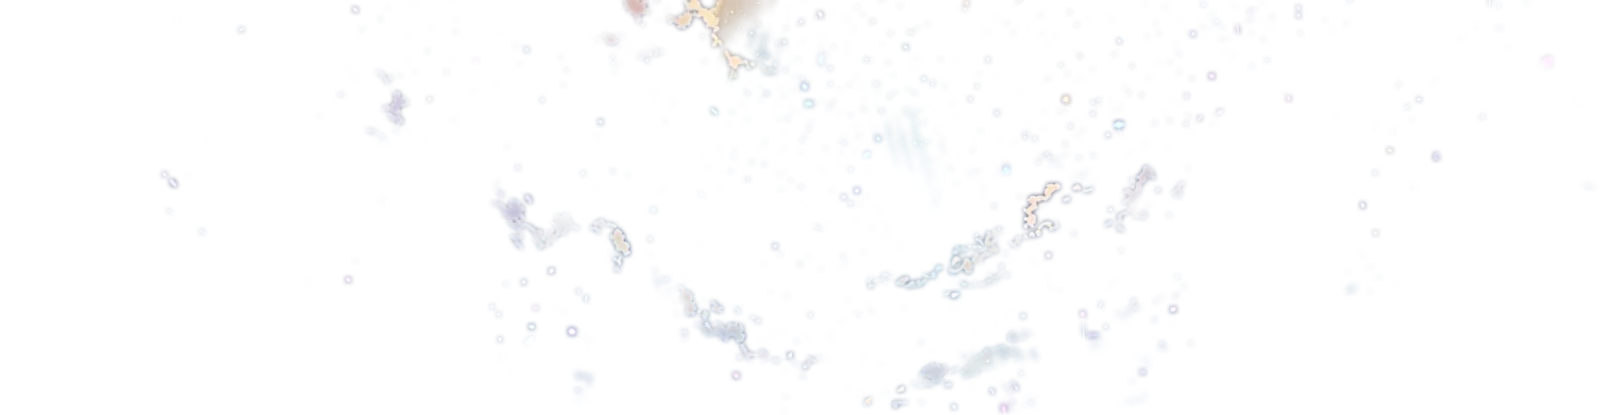
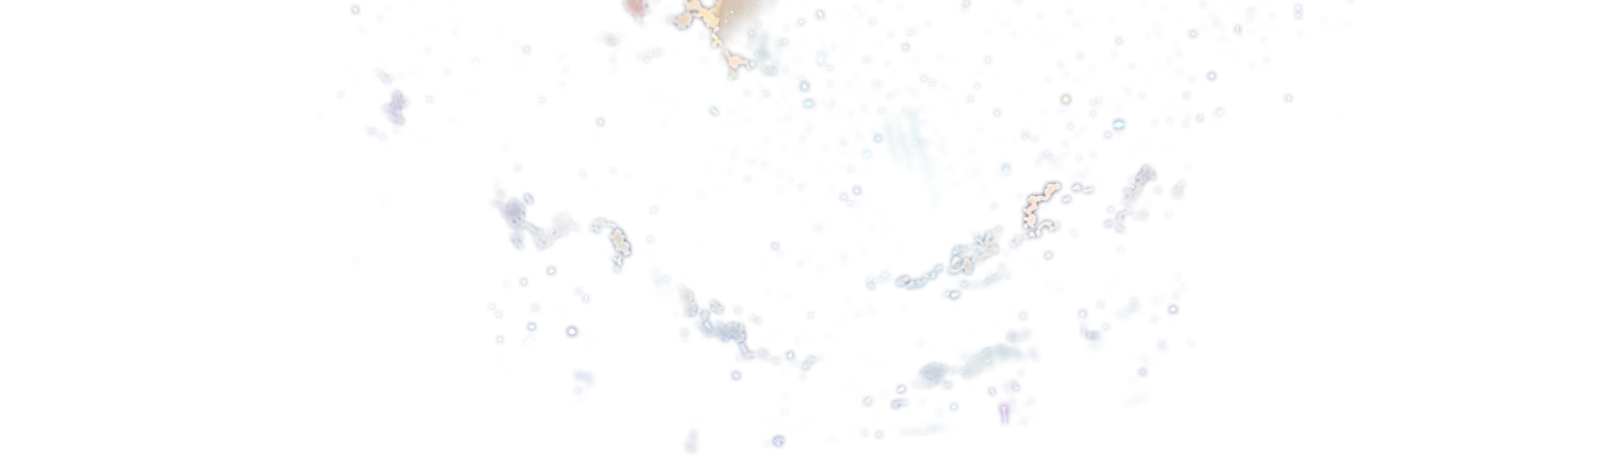
Teen sign-in light beams sweep; picture names on the kid sign-in pad
- The neon city's spotlight beams swing a few degrees round their source and breathe,
  over a plate with the sky filled in behind them (no ghost beams).
- Each picture on the picture-code pad shows its name on hover, focus or tap, so a
  grown-up can help a child set or remember a code.

Claude-Session: https://claude.ai/code/session_01W5FUqr3wzG1fxesKh8vtqK

diff --git a/scripts/living-art.ts b/scripts/living-art.ts
@@ -16,7 +16,7 @@ import { join } from "node:path";
 import sharp from "sharp";
 import { cutoutFromMasks, maskArea, masksToAlpha, samSegment, type MaskRaster } from "../lib/meta/index.ts";
 
-export type Motion = "sway" | "waver" | "breeze" | "mist" | "haze" | "bob" | "float" | "orbit" | "flow" | "shimmer" | "glint" | "runway" | "neon" | "flicker" | "pulse" | "sky" | "twinkle" | "aurora" | "stream";
+export type Motion = "sway" | "waver" | "breeze" | "mist" | "haze" | "bob" | "float" | "orbit" | "sweep" | "flow" | "shimmer" | "glint" | "runway" | "neon" | "flicker" | "pulse" | "sky" | "twinkle" | "aurora" | "stream";
 const MASK_ONLY: ReadonlySet<Motion> = new Set(["breeze", "flow", "shimmer", "glint", "runway", "neon", "flicker", "pulse", "sky", "twinkle", "aurora", "stream"]);
 
 /** A circle in fractions of the art: centre x of the width, y of the height, radius r of the width. */
@@ -58,7 +58,7 @@ interface PixelPart {
   /** Leave out what these SAM parts cover (the clouds behind the islands are not the islands), or keep only that. */
   exclude?: string[];
   inside?: string[];
-  /** Where an orbit layer turns, in percent of the art. */
+  /** Where an orbit or sweep layer turns, in percent of the art. */
   center?: { x: number; y: number };
 }
 interface Recipe {
@@ -169,10 +169,11 @@ export const RECIPES: Recipe[] = [
     parts: [{ id: "sky", prompt: "sky", motion: "sky", layer: false }],
     pixels: [
       { id: "trails", motion: "stream", test: "chroma", below: 0.25 },
-      { id: "beams", motion: "haze", test: "luma", above: 0.45, inside: ["sky"] },
+      { id: "beams", motion: "sweep", test: "luma", above: 0.5, inside: ["sky"], within: { x: 0.52, y: 0, r: 0.34 }, center: { x: 52, y: -4 } },
       { id: "stars", motion: "twinkle", test: "white", above: 0.4, split: 3, inside: ["sky"] },
       { id: "windows", motion: "flicker", test: "warm", split: 4 },
     ],
+    plate: { under: ["beams"], sigma: 30, grow: 4 },
   },
   {
     art: "transform-vortex",
@@ -434,7 +435,7 @@ async function run(recipe: Recipe, root: string, manifest: Record<string, unknow
 
   if (sheetDir) {
     const scale = 900 / W;
-    const tint: Record<Motion, string> = { twinkle: "#FFFFFF", aurora: "#7FFFD4", stream: "#FF1493", sky: "#87CEEB", float: "#FF8C00", orbit: "#E0FFFF", flicker: "#FFB347", pulse: "#FFFFFF", sway: "#3CB371", waver: "#9ACD32", breeze: "#ADFF2F", haze: "#D8BFD8", mist: "#B0C4DE", bob: "#FFA500", flow: "#00BFFF", shimmer: "#40E0D0", glint: "#FFD700", runway: "#FF69B4", neon: "#FF00FF" };
+    const tint: Record<Motion, string> = { sweep: "#E0FFFF", twinkle: "#FFFFFF", aurora: "#7FFFD4", stream: "#FF1493", sky: "#87CEEB", float: "#FF8C00", orbit: "#E0FFFF", flicker: "#FFB347", pulse: "#FFFFFF", sway: "#3CB371", waver: "#9ACD32", breeze: "#ADFF2F", haze: "#D8BFD8", mist: "#B0C4DE", bob: "#FFA500", flow: "#00BFFF", shimmer: "#40E0D0", glint: "#FFD700", runway: "#FF69B4", neon: "#FF00FF" };
     const overlays = await Promise.all(
       layers.map(async (l) => {
         const w = Math.max(1, Math.round((l.w / 100) * W * scale)), h = Math.max(1, Math.round((l.h / 100) * H * scale));

diff --git a/lib/scene/livingArt.ts b/lib/scene/livingArt.ts
@@ -2,7 +2,7 @@
 // for each cut-out part and its motion settings. Shared by the React <LivingArt> and the canvas board builder, so
 // both draw the same scene. Deterministic: a layer's speed, swing and phase come from its place in the list.
 
-export type LivingMotion = "sway" | "waver" | "breeze" | "mist" | "haze" | "bob" | "float" | "orbit" | "flow" | "shimmer" | "glint" | "runway" | "neon" | "flicker" | "pulse" | "sky" | "twinkle" | "aurora" | "stream";
+export type LivingMotion = "sway" | "waver" | "breeze" | "mist" | "haze" | "bob" | "float" | "orbit" | "sweep" | "flow" | "shimmer" | "glint" | "runway" | "neon" | "flicker" | "pulse" | "sky" | "twinkle" | "aurora" | "stream";
 
 export interface LivingLayer {
   id: string;
@@ -13,7 +13,7 @@ export interface LivingLayer {
   w: number;
   h: number;
   mask: boolean;
-  /** Turning point for an orbit layer, in percent of the art. */
+  /** Turning point for an orbit or sweep layer, in percent of the art. */
   ox?: number;
   oy?: number;
 }
@@ -35,7 +35,7 @@ export type LivingPiece =
   | { kind: "splash"; key: string; style: Style; puffs: Style[]; drops: Style[] };
 
 /** Paint order: drifting clouds first, then plants, then light. */
-const ORDER: LivingMotion[] = ["sky", "haze", "mist", "orbit", "bob", "float", "sway", "waver", "breeze", "shimmer", "glint", "aurora", "stream", "twinkle", "flicker", "pulse", "runway", "flow", "neon"];
+const ORDER: LivingMotion[] = ["sky", "haze", "sweep", "mist", "orbit", "bob", "float", "sway", "waver", "breeze", "shimmer", "glint", "aurora", "stream", "twinkle", "flicker", "pulse", "runway", "flow", "neon"];
 
 const n2 = (v: number) => String(Math.round(v * 100) / 100);
 
@@ -64,6 +64,8 @@ function timing(motion: LivingMotion, i: number): Style {
     }
     case "orbit":
       return { "--d": `${90 + i * 40}s` };
+    case "sweep":
+      return { "--d": `${9 + i * 3}s` };
     case "flicker":
       return { "--d": `${n2(pick(2.4, 0.7, 4))}s`, "--dl": `-${n2(i * 0.9)}s` };
     case "pulse":

diff --git a/components/signin/signin.css b/components/signin/signin.css
@@ -81,6 +81,11 @@
 .lg-tile{width:76px;height:76px;padding:0;border:0;border-radius:50%;cursor:pointer;justify-self:center;transition:transform 120ms var(--ease-bounce)}
 .lg-tile:active{transform:scale(.9)}
 .lg-tile img{display:block;width:100%;height:100%;border-radius:50%;object-fit:cover}
+/* Each picture's name as a tooltip on hover or keyboard focus (and after a tap on touch), so a grown-up can say
+   "Kix smiling, Kix cheering..." when helping a child set or remember a code. */
+.lg-tile{position:relative}
+.lg-tile[data-tip]::after{content:attr(data-tip);position:absolute;left:50%;bottom:calc(100% + 8px);z-index:5;padding:5px 10px;border-radius:10px;background:var(--ink);color:var(--surface);font:800 13px/1.2 var(--font-text);white-space:nowrap;box-shadow:0 6px 16px rgba(20,16,50,.28);opacity:0;transform:translate(-50%,4px);transition:opacity .15s ease,transform .15s ease;pointer-events:none}
+.lg-tile[data-tip]:hover::after,.lg-tile[data-tip]:focus-visible::after{opacity:1;transform:translate(-50%,0)}
 .lg-jstatus{grid-area:status;display:flex;flex-wrap:wrap;align-items:center;justify-content:space-between;gap:12px}
 .lg-jmsg{grid-area:msg}
 .lg-jlink{grid-area:link;justify-self:start}

diff --git a/components/scene/livingArt.css b/components/scene/livingArt.css
@@ -27,6 +27,9 @@
 @keyframes la-float{from{transform:translateY(calc(-1 * var(--ay,.5cqh))) rotate(-.4deg)}to{transform:translateY(var(--ay,.5cqh)) rotate(.4deg)}}
 .la-orbit{transform-origin:var(--o,50% 50%);animation:la-orbit var(--d,120s) linear infinite}
 @keyframes la-orbit{to{transform:rotate(-360deg)}}
+/* Spotlight beams swing a few degrees round their source and breathe (on a plate with the sky filled in). */
+.la-sweep{transform-origin:var(--o,50% 0);animation:la-rays var(--d,9s) ease-in-out infinite alternate}
+@keyframes la-rays{0%{transform:rotate(-3.5deg);opacity:.7}50%{opacity:1}100%{transform:rotate(3.5deg);opacity:.8}}
 /* Lanterns and chest glow flicker in four groups, each on its own beat; a core of light breathes. */
 .la-flicker{background:rgba(255,224,150,.9);animation:la-flicker var(--d,2.8s) ease-in-out infinite;animation-delay:var(--dl,0s)}
 @keyframes la-flicker{0%,100%{opacity:.1}30%{opacity:.7}45%{opacity:.35}70%{opacity:.95}}

diff --git a/components/signin/SignInScreen.tsx b/components/signin/SignInScreen.tsx
@@ -621,6 +621,7 @@ export function SignInScreen({
                         key={p.id}
                         className="lg-tile"
                         type="button"
+                        data-tip={p.label}
                         onClick={() => tap(p.id)}
                         disabled={busy}
                         style={{ background: "var(--surface-raised)", boxShadow: "0 0 0 3px var(--surface-raised), 0 0 0 5px var(--line), var(--shadow-raised)" }}
